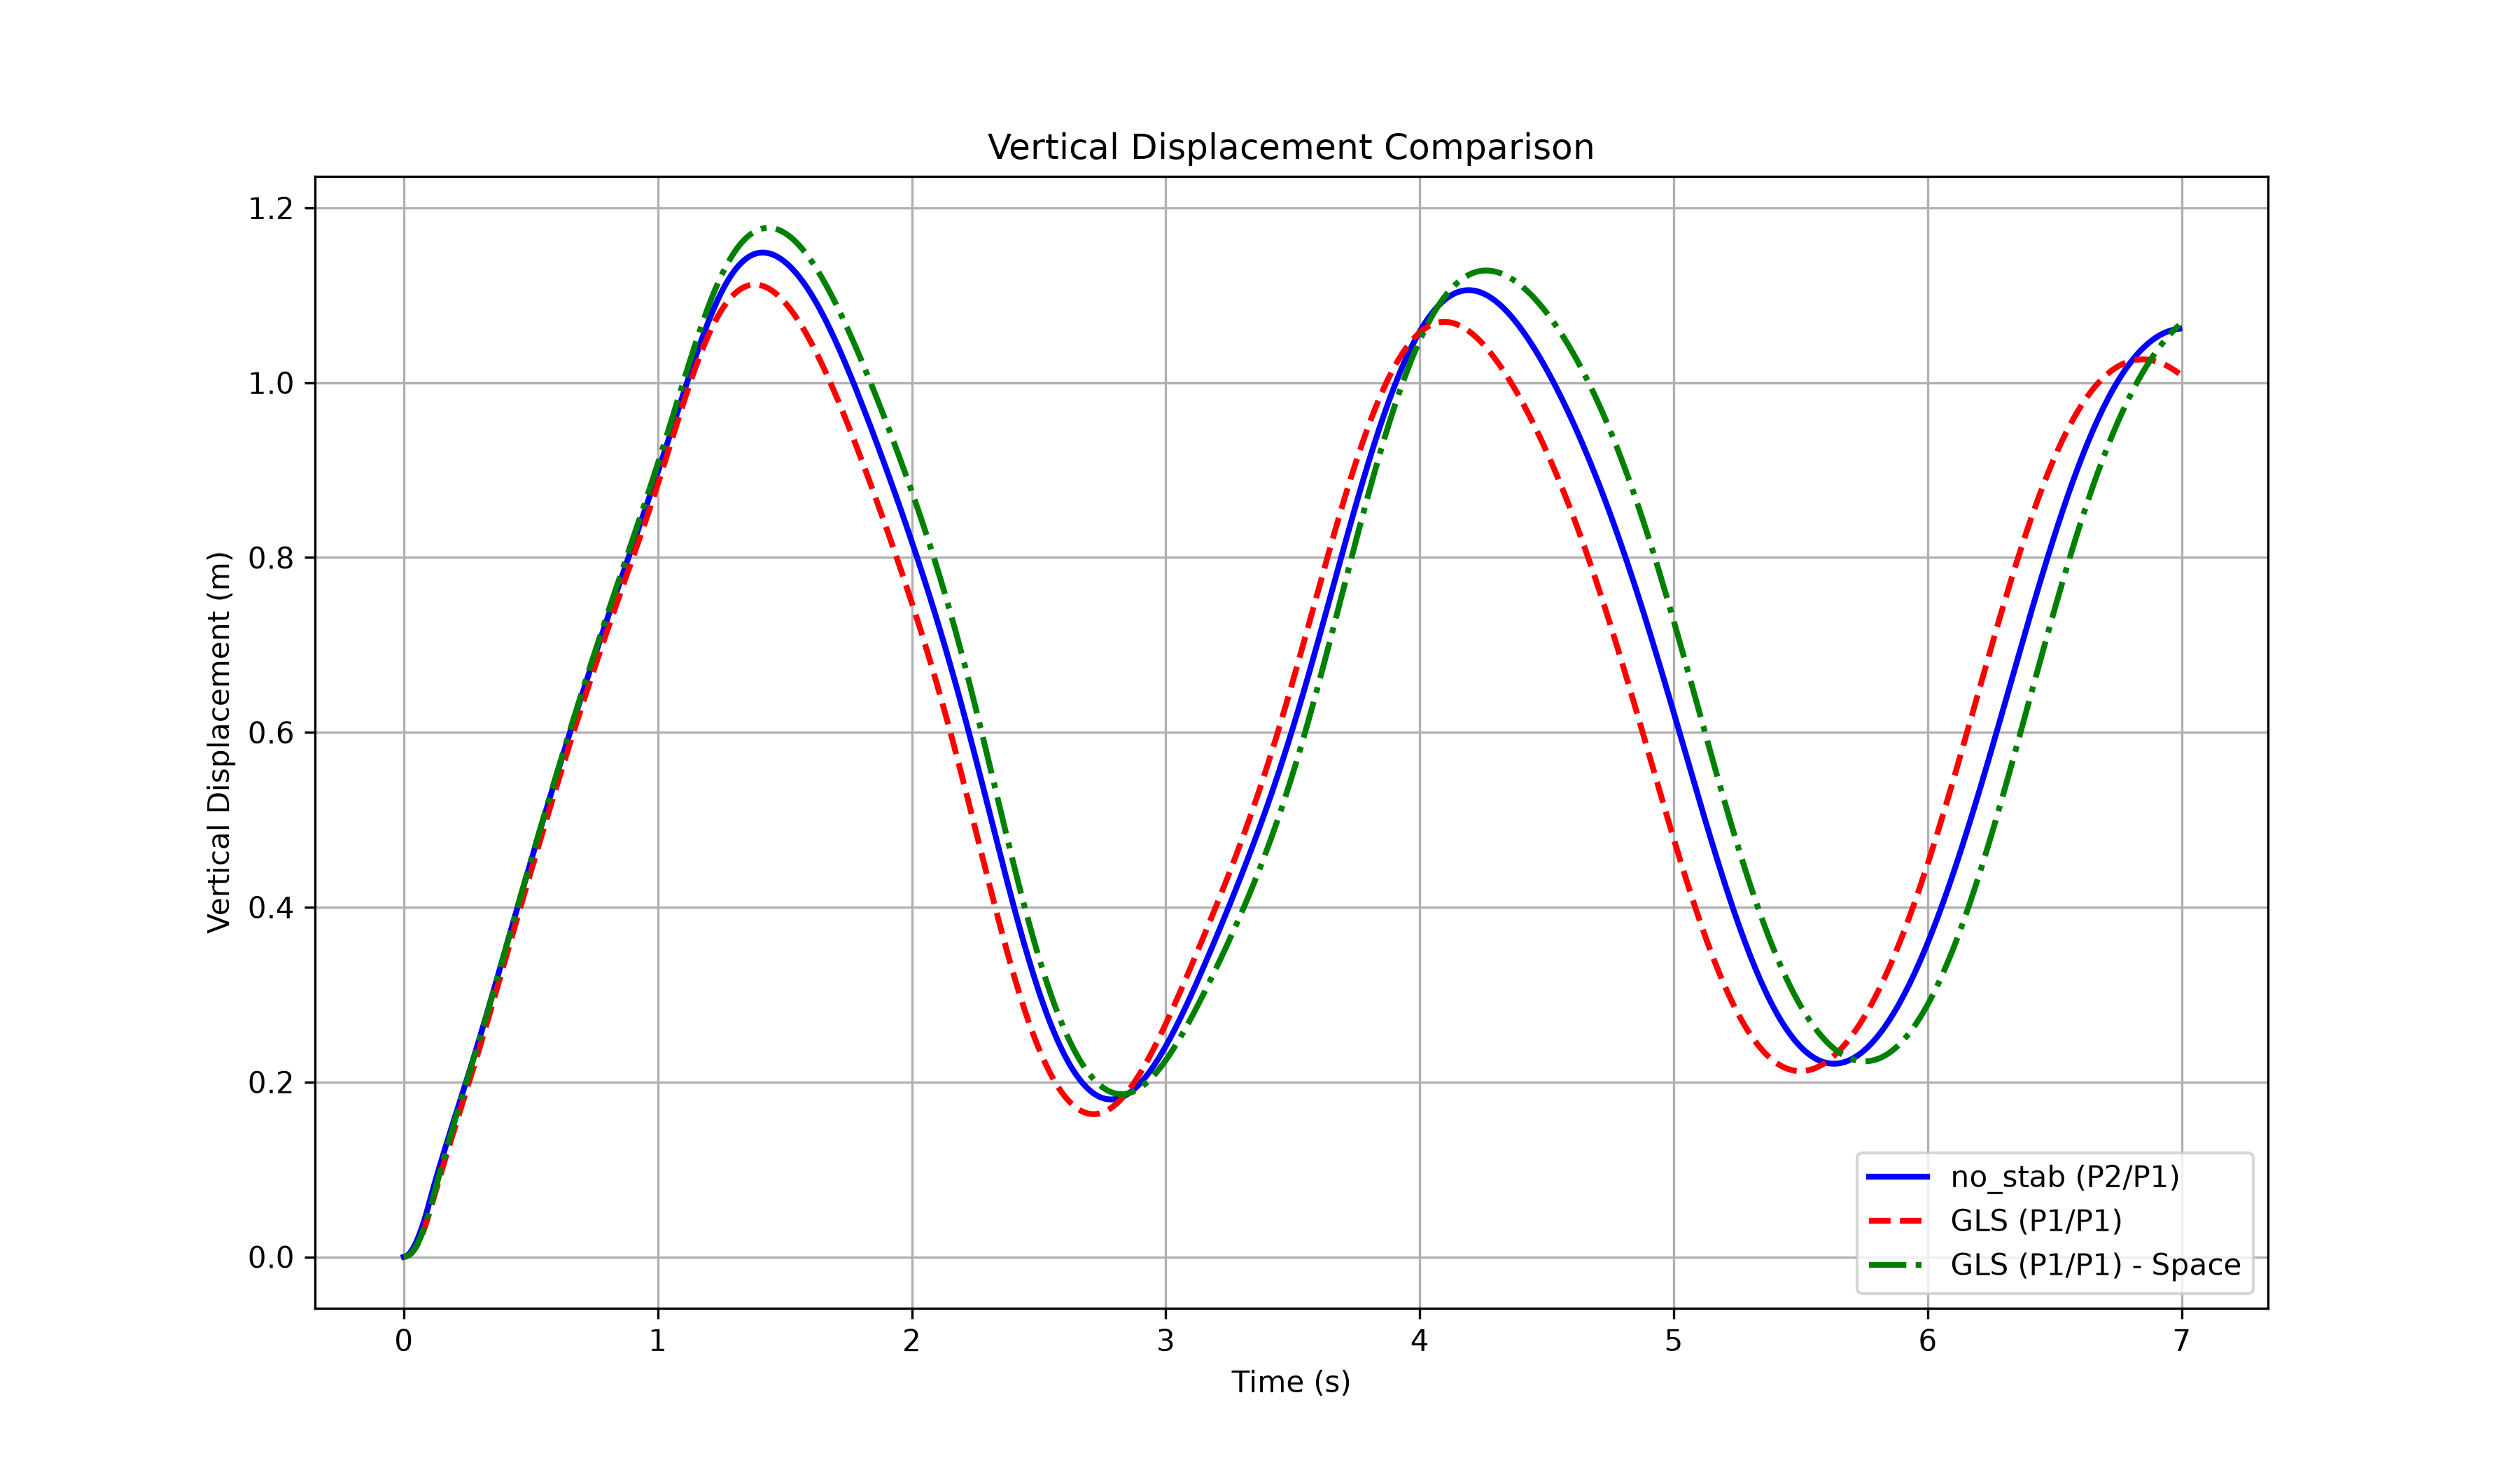
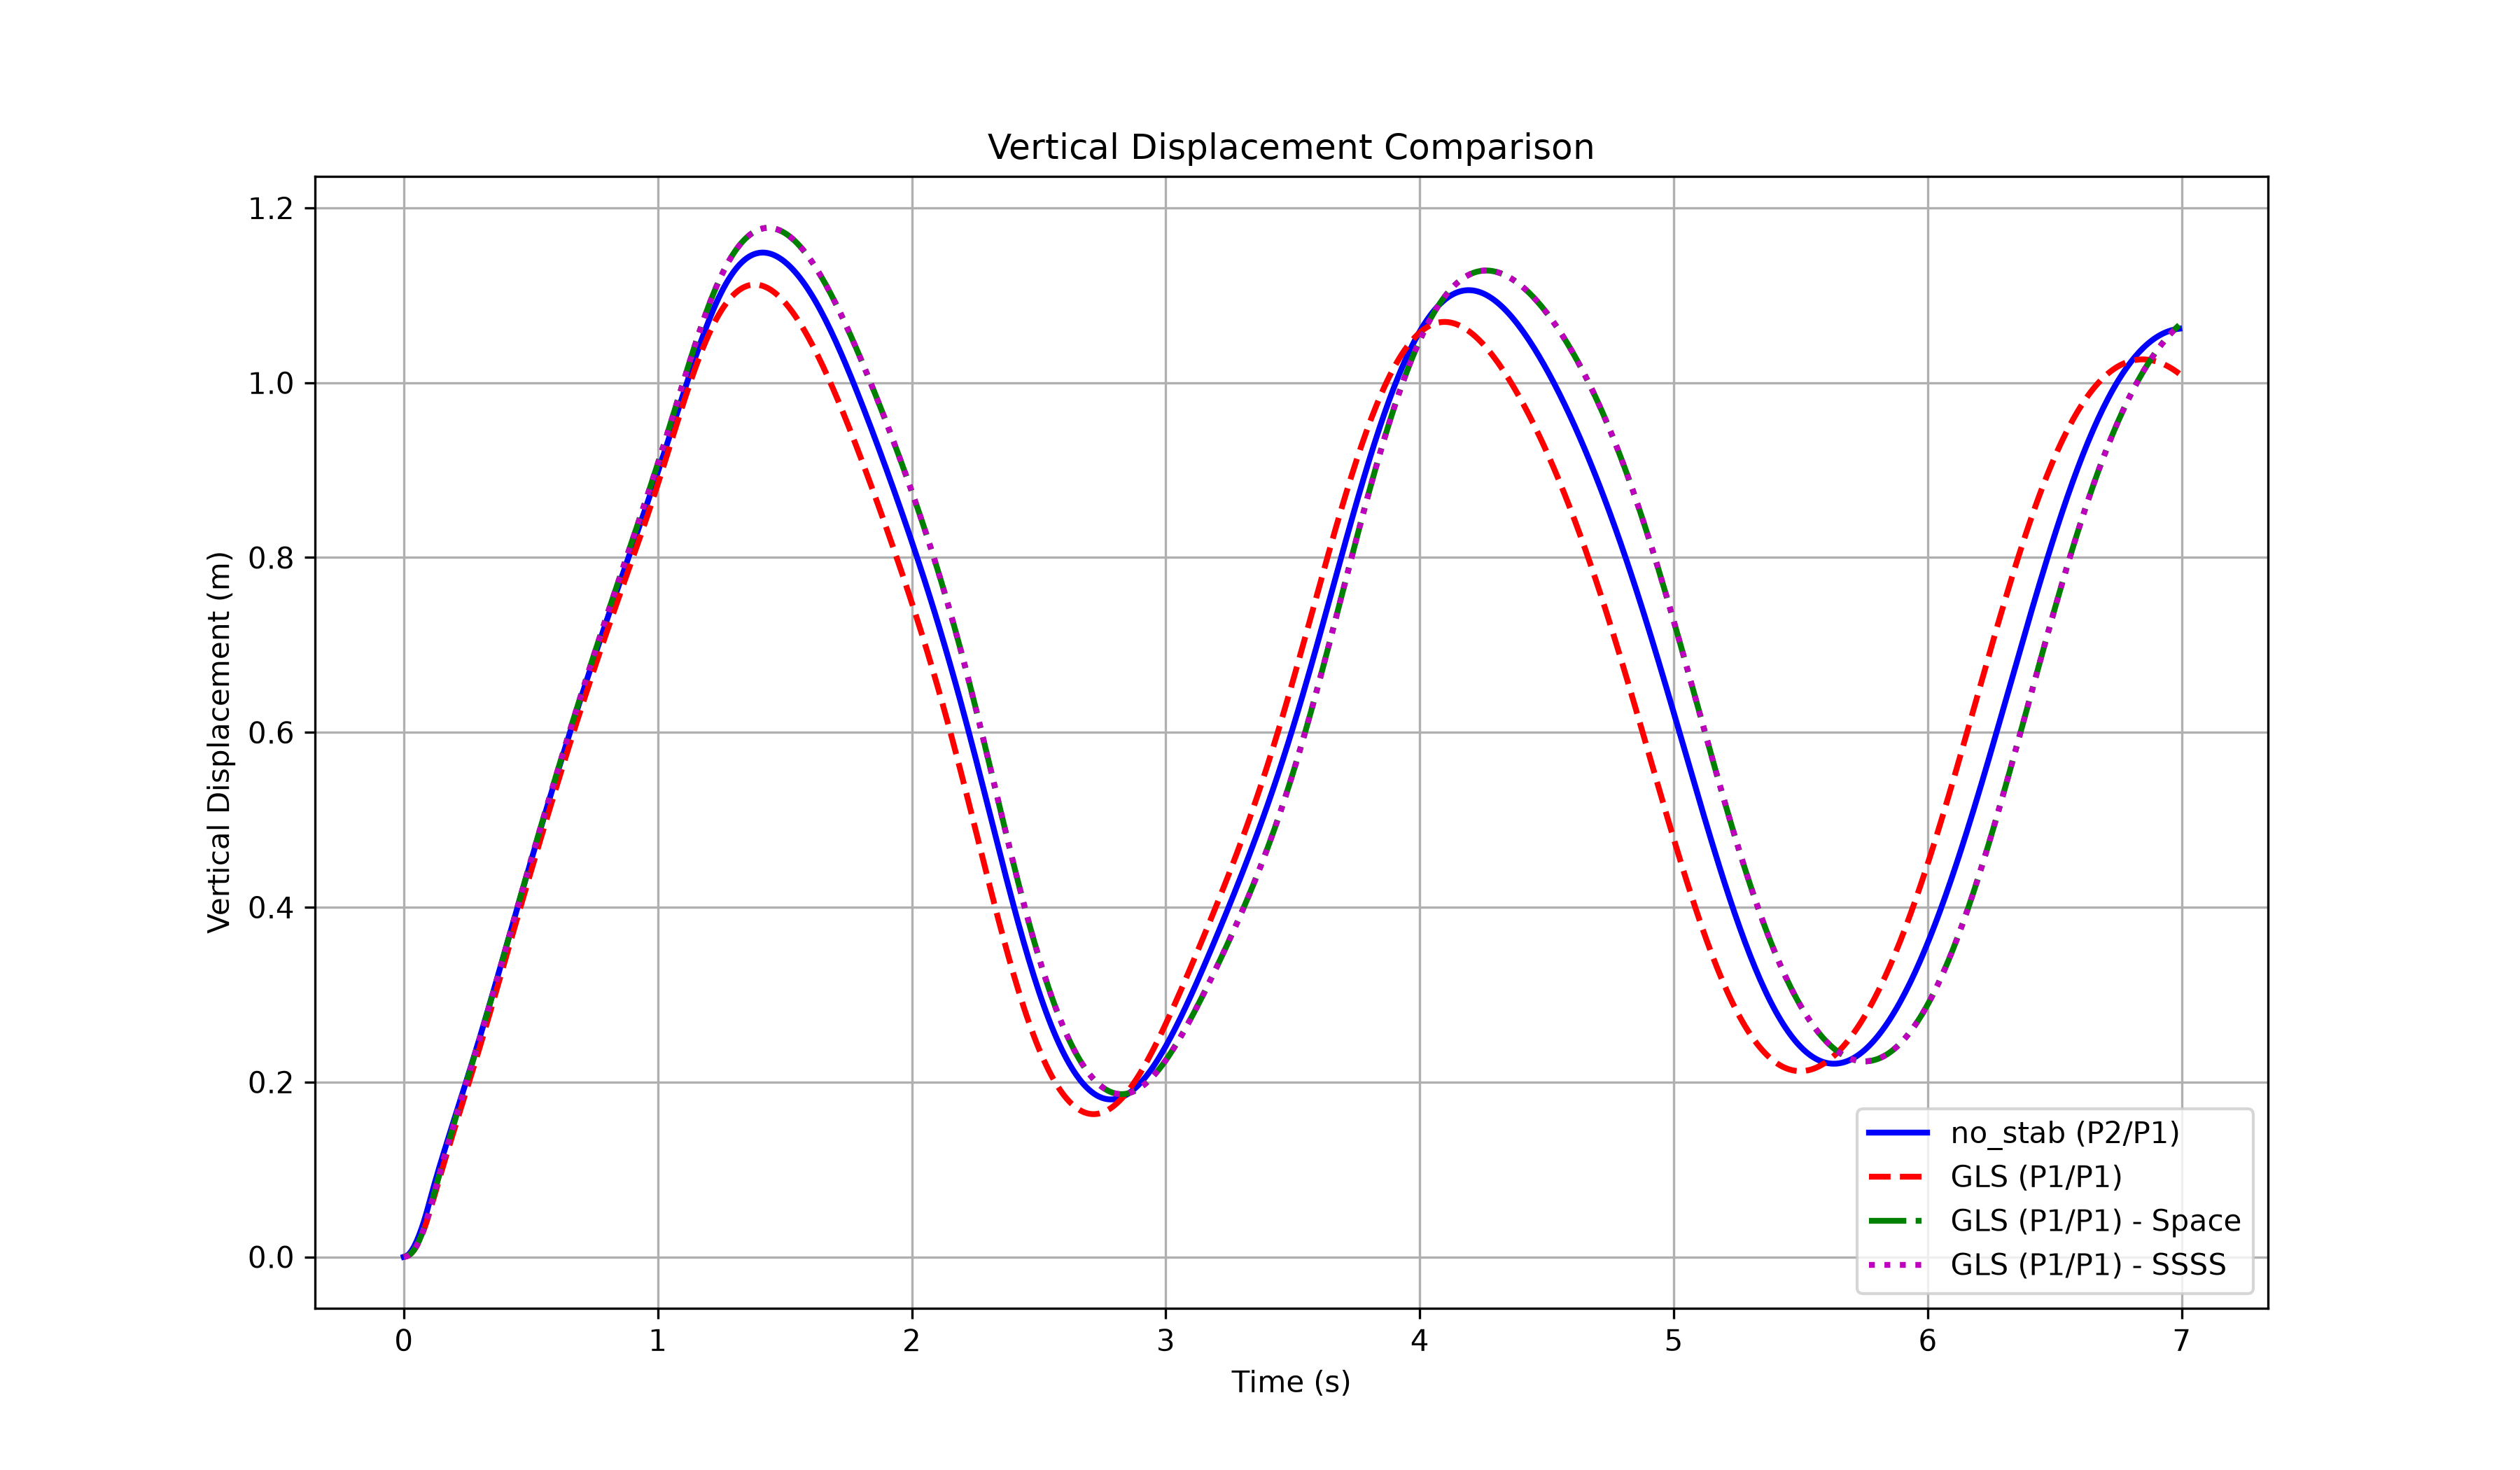
oooo

Changed region(s): [[0.7467, 0.7429, 0.8711, 0.8357], [0.8711, 0.8357, 0.9022, 0.8667]]

diff --git a/stabilized_hyperelasticity.py b/stabilized_hyperelasticity.py
@@ -1,5 +1,5 @@
 from dolfin import *
-from ufl import Identity, tr, det, grad, inv, derivative, variable, ln
+from ufl import Identity, tr, det, grad, inv, derivative, variable, ln, conditional
 import numpy as np
 from petsc4py import PETSc
 
@@ -138,11 +138,14 @@ class DynamicStabilizedHyperelasticitySolver:
 
         P = diff(self.material.strain_energy(F_v), F_v) - self.p * H
     
-        # LSIC 稳定参数（动量方程）
-        tau_p = c3 * material.mu * self.h**2
-        # PSPG 稳定参数（连续方程，不含时间导数，与静态求解器一致）
-        tau_pspg = c4 * self.h**2 / material.mu
+        # 材料参数
+        self.mu = material.mu
         
+        # LSIC 稳定参数（动量方程）
+        tau_p = c3 * self.mu * self.h**2
+        # PSPG 稳定参数: τ = (c_tau/2)·max(dt_mu/100, min(dt_mu, Δt))
+        #   dt_mu = h / c_mu  剪切波穿越单元时间
+        tau_pspg = c4 * self.h**2 / material.mu
         if hasattr(self.material, 'pressure_residual'):
             R_p = self.material.pressure_residual(J, self.p)
         elif hasattr(self.material, 'kappa'):
@@ -150,13 +153,16 @@ class DynamicStabilizedHyperelasticitySolver:
         else:
             R_p = J - 1
 
+        # 完整动态残差（含惯性项）
+        R_u = div(P)
+        
         # GLS 变分形式
         Res_u = inner(self.rho * a, self.v)*dx + inner(P, grad(self.v))*dx
         Res_p = self.q*R_p*dx
         
         if self._use_stab:
             Res_u += tau_p*inner(H, grad(self.v))*R_p*dx
-            Res_p += - tau_pspg*inner(div(P), H*grad(self.q))*dx
+            Res_p += - tau_pspg*inner(R_u, H*grad(self.q))*dx
         
         self.Res = Res_u + Res_p
         self.Jacobian = derivative(self.Res, self.w, self.w_trial)

diff --git a/dynamics_cooks_membrane.py b/dynamics_cooks_membrane.py
@@ -39,7 +39,7 @@ if MPI.comm_world.rank == 0:
 t0 = time.time()
 material = SimoTaylorNeoHookean(E)
 solver = DynamicStabilizedHyperelasticitySolver(
-    mesh, boundaries, material, dt=dt, rho=rho, u_order=u_order, p_order=p_order, c1=1.0, c2=4.0, c3=0.1
+    mesh, boundaries, material, dt=dt, rho=rho, u_order=u_order, p_order=p_order, c3=0.1, c4=0.2
 )
 timings['求解器初始化'] = time.time() - t0
 if MPI.comm_world.rank == 0: